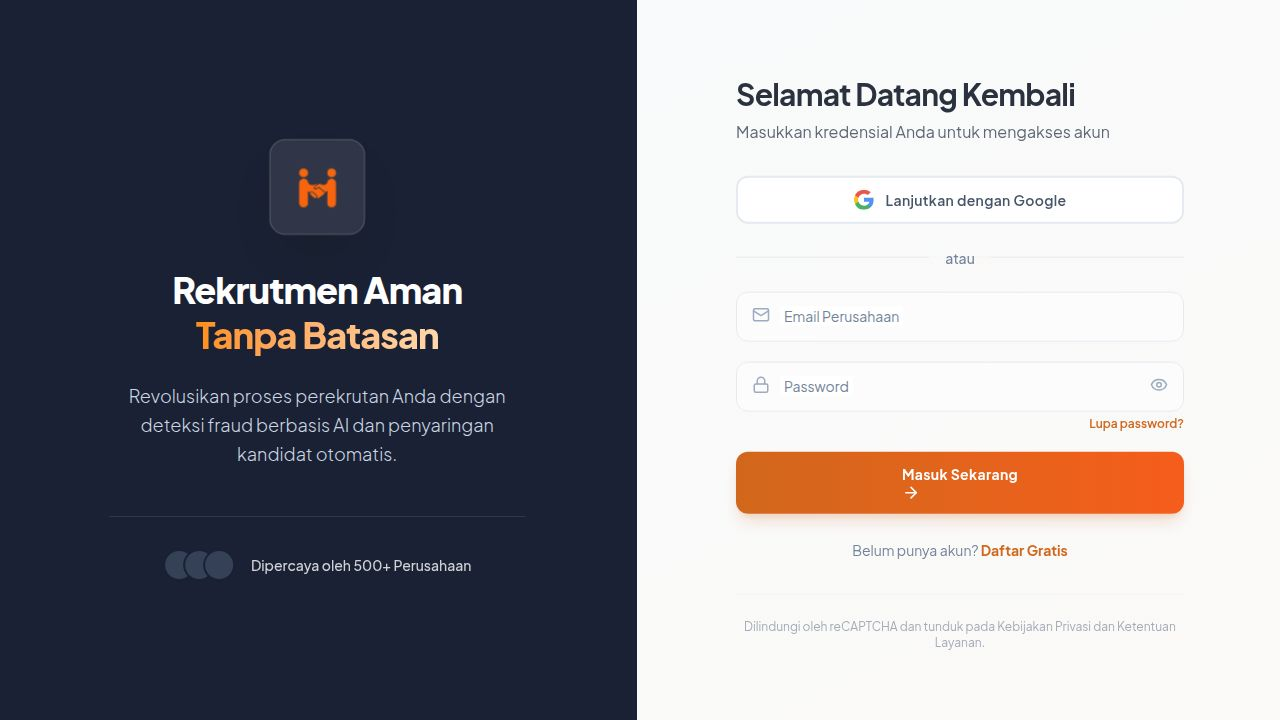
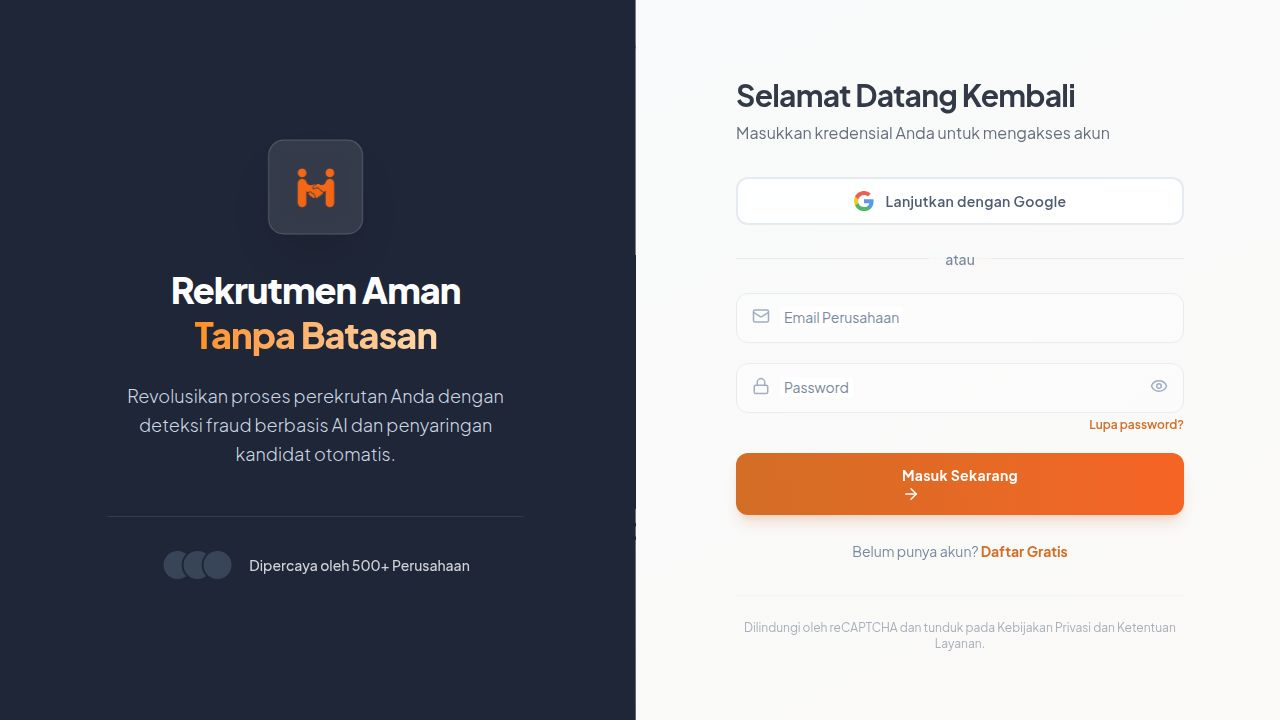
Add reference check workflow and integrate it into the system
Adds a new 'reference_check' workflow template, including icon and priority ordering. Updates the stage tracker to recognize and auto-trigger 'reference_check' alongside 'background_check', and defines its label, color, and icon for UI display.

Replit-Commit-Author: Agent
Replit-Commit-Session-Id: 0c3a9584-50a4-41ea-bf57-b80e6a372268
Replit-Commit-Checkpoint-Type: full_checkpoint
Replit-Commit-Event-Id: e5666549-456f-481d-a26d-110c0f9db231
Replit-Commit-Screenshot-Url: https://storage.googleapis.com/screenshot-production-us-central1/4633633f-4f15-4325-92f2-e32440fa48ac/0c3a9584-50a4-41ea-bf57-b80e6a372268/zvQKxGt
Replit-Helium-Checkpoint-Created: true

diff --git a/artifacts/fraudapp/services/stageTracker.ts b/artifacts/fraudapp/services/stageTracker.ts
@@ -8,6 +8,7 @@ export type RecruitmentStage =
     | 'interview'
     | 'background_check'
     | 'bc_completed'
+    | 'reference_check'
     | 'hired'
     | 'rejected';
 
@@ -19,6 +20,7 @@ export const getStageLabel = (stage: RecruitmentStage): string => {
         'interview': 'Wawancara Scheduled',
         'background_check': 'Background Check Process',
         'bc_completed': 'Background Check Selesai',
+        'reference_check': 'Cek Referensi Kerja',
         'hired': 'Hire',
         'rejected': 'Tolak'
     };
@@ -62,9 +64,9 @@ export const updateCandidateStage = async (
         if (error) throw error;
         console.log(`[STAGE-TRACKER] ✅ Stage updated successfully to ${newStage}`);
 
-        // Auto-trigger: when stage moves to background_check, kick off
-        // reference-check request to candidate (best-effort, non-fatal).
-        if (newStage === 'background_check') {
+        // Auto-trigger: when stage moves to background_check OR reference_check,
+        // kick off reference-check request to candidate (best-effort, non-fatal).
+        if (newStage === 'background_check' || newStage === 'reference_check') {
             try {
                 const { data: full } = await supabase
                     .from(COLLECTIONS.SESSIONS)
@@ -109,6 +111,7 @@ export const getStageColor = (stage: RecruitmentStage): string => {
         'interview': 'purple',
         'background_check': 'blue',
         'bc_completed': 'green',
+        'reference_check': 'cyan',
         'hired': 'green',
         'rejected': 'red'
     };
@@ -123,6 +126,7 @@ export const getStageIcon = (stage: RecruitmentStage): string => {
         'interview': 'MessageSquare',
         'background_check': 'Search',
         'bc_completed': 'CheckCircle2',
+        'reference_check': 'PhoneCall',
         'hired': 'UserCheck',
         'rejected': 'XCircle'
     };

diff --git a/artifacts/fraudapp/types.ts b/artifacts/fraudapp/types.ts
@@ -530,6 +530,15 @@ export const WORKFLOW_TEMPLATES: WorkflowTemplate[] = [
     category: 'verification'
   },
   {
+    id: 'reference_check',
+    name: 'Cek Referensi Kerja',
+    description: 'Verifikasi pengalaman kerja kandidat via WhatsApp ke HR perusahaan sebelumnya',
+    credits: 30,
+    isMandatory: false,
+    icon: 'PhoneCall',
+    category: 'verification'
+  },
+  {
     id: 'gambling_screening',
     name: 'Test Judol (Browser History)',
     description: 'Screening riwayat browser kandidat untuk mendeteksi aktivitas judi online via Chrome Extension',

diff --git a/artifacts/fraudapp/components/WorkflowManager.tsx b/artifacts/fraudapp/components/WorkflowManager.tsx
@@ -2,7 +2,7 @@ import React, { useState, useEffect } from 'react';
 import {
   Plus, Edit2, Trash2, Save, X, ShieldCheck, Brain, Video, Users, Search,
   FileCheck, Share2, CheckCircle, XCircle, AlertCircle, ArrowRight,
-  GripVertical, Layout, Box, Coins, Clock, Globe
+  GripVertical, Layout, Box, Coins, Clock, Globe, PhoneCall
 } from 'lucide-react';
 import { Workflow, WorkflowStep, WORKFLOW_TEMPLATES, WorkflowTemplate } from '../types';
 import { supabase, COLLECTIONS, createWorkflow, updateWorkflow, deleteWorkflow } from '../services/supabase';
@@ -30,7 +30,8 @@ const iconMap: { [key: string]: any } = {
   Share2,
   CheckCircle,
   XCircle,
-  Globe
+  Globe,
+  PhoneCall
 };
 
 const WorkflowManager: React.FC<WorkflowManagerProps> = ({ companyId, isDarkMode }) => {
@@ -132,6 +133,8 @@ const WorkflowManager: React.FC<WorkflowManagerProps> = ({ companyId, isDarkMode
       const ORDER_PRIORITY: Record<string, number> = {
         integrity_assessment: 0,
         gambling_screening: 10, // Must come after integrity_assessment
+        background_check: 20,
+        reference_check: 30, // After background_check
         hire_decision: 900,
         reject_decision: 901,
       };